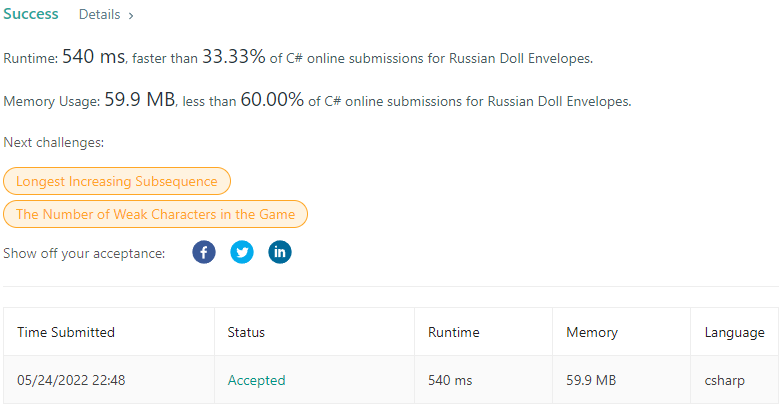
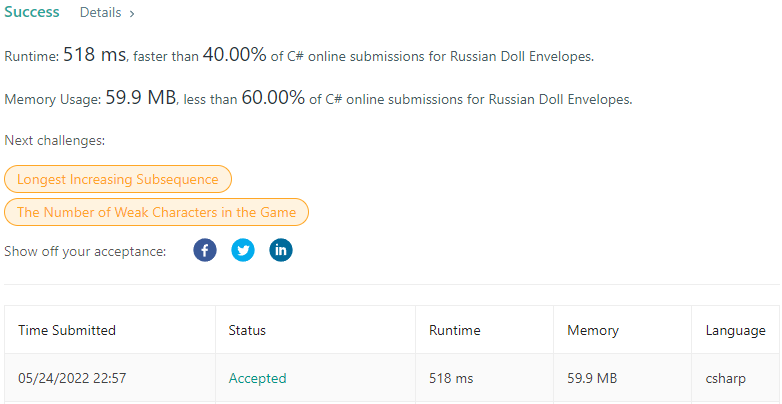
Clean Up Problem #354
I found a way to inline the comparer, I should've expected the lambda operator would slide in one of these days.

diff --git a/problems/354-Russian-Doll-Envelopes/solution.cs b/problems/354-Russian-Doll-Envelopes/solution.cs
@@ -1,16 +1,25 @@
 public class Solution {
     public int MaxEnvelopes(int[][] envelopes) {
-        // To solve this, we're going to do a few things. First, we're going to sort the array on the width (envelopes[][0]). 
+        // First, we're going to sort the array on the width (envelopes[][0]). 
         // If the width is equal, we're going to put the larger height (envelopes[][1]) item first. 
         // By putting the larger height items first, we can ensure we always end with the smallest
-        // height envelope of that width when we move onto the next width.
+        // height envelope of that width before we move onto the next width.
 
-        // Instantiate a sorter, which is defined below. It essentially allows Array.Sort() to
-        // understand when an envelope is bigger than another following the rules mentioned above.
-        Sorter sorter = new Sorter();
+        // The second parameter is a method that essentially allows Array.Sort() to understand when
+        // one envelope is bigger than another following the rules mentioned above. If the method 
+        // returns a negative number, the first object is smaller. If it returns a positive number, 
+        // the first object is larger. If it returns a 0, the two objects are treated as equal.
+        Array.Sort(envelopes, (x, y) => {
+            // If the widths are equal, sort the item with the bigger height as smaller.
+            if(x[0] - y[0] == 0) {
+              return y[1] - x[1];
+            }
 
-        // Actually sort the envelopes.
-        Array.Sort(envelopes, sorter); // O(log n), according to the C# documentation
+            // Otherwise, sort the item with the smaller width as smaller. 
+            // For example, if x[0] = 4 and y[0] = 1, this will return 3, which says that x is bigger than y. 
+            // If x[0] = 1 and y[0] = 4, this will return -3, which says that y is bigger than x.
+            return x[0] - y[0];
+        }); // O(log n), according to the C# documentation
         
         // Cache how many envelopes we have so we don't ask for it for every element in the array.
         int n = envelopes.Length;
@@ -64,29 +73,5 @@ public class Solution {
         }
         
         return result;
-    }
-    
-    // I couldn't find a way to declare our sorter in-line like is possible with Java, JS, and Python
-    // (as well as languages I don't know), so I made a class that implements IComparer to compare envelopes.
-    // C# comparers work by passing in two objects. If the method returns a negative number, the first
-    // object is smaller. If it returns a positive number, the first object is larger. If it returns a 0, 
-    // the two objects are treated as equal in value.
-    class Sorter : IComparer {
-        // It requires that the objects passed in are declared as Objects, much to my dismay.
-        int IComparer.Compare(Object ox, Object oy)  {
-            // Convert the Objects to int[], as that's what they are
-            int[] x = ox as int[];
-            int[] y = oy as int[];
-
-            // If the widths are equal, sort the item with the bigger height as smaller.
-            if(x[0] - y[0] == 0) {
-              return y[1] - x[1];
-            }
-
-            // Else, sort the item with the smaller width as smaller. 
-            // For example, x[0] = 4 and y[0] = 1, this will return 3, which says that x is bigger than y. 
-            // If x[0] = 1 and y[0] = 4, this will return -3, which says that y is bigger than x.
-            return x[0] - y[0];
-        }
     }
 }
